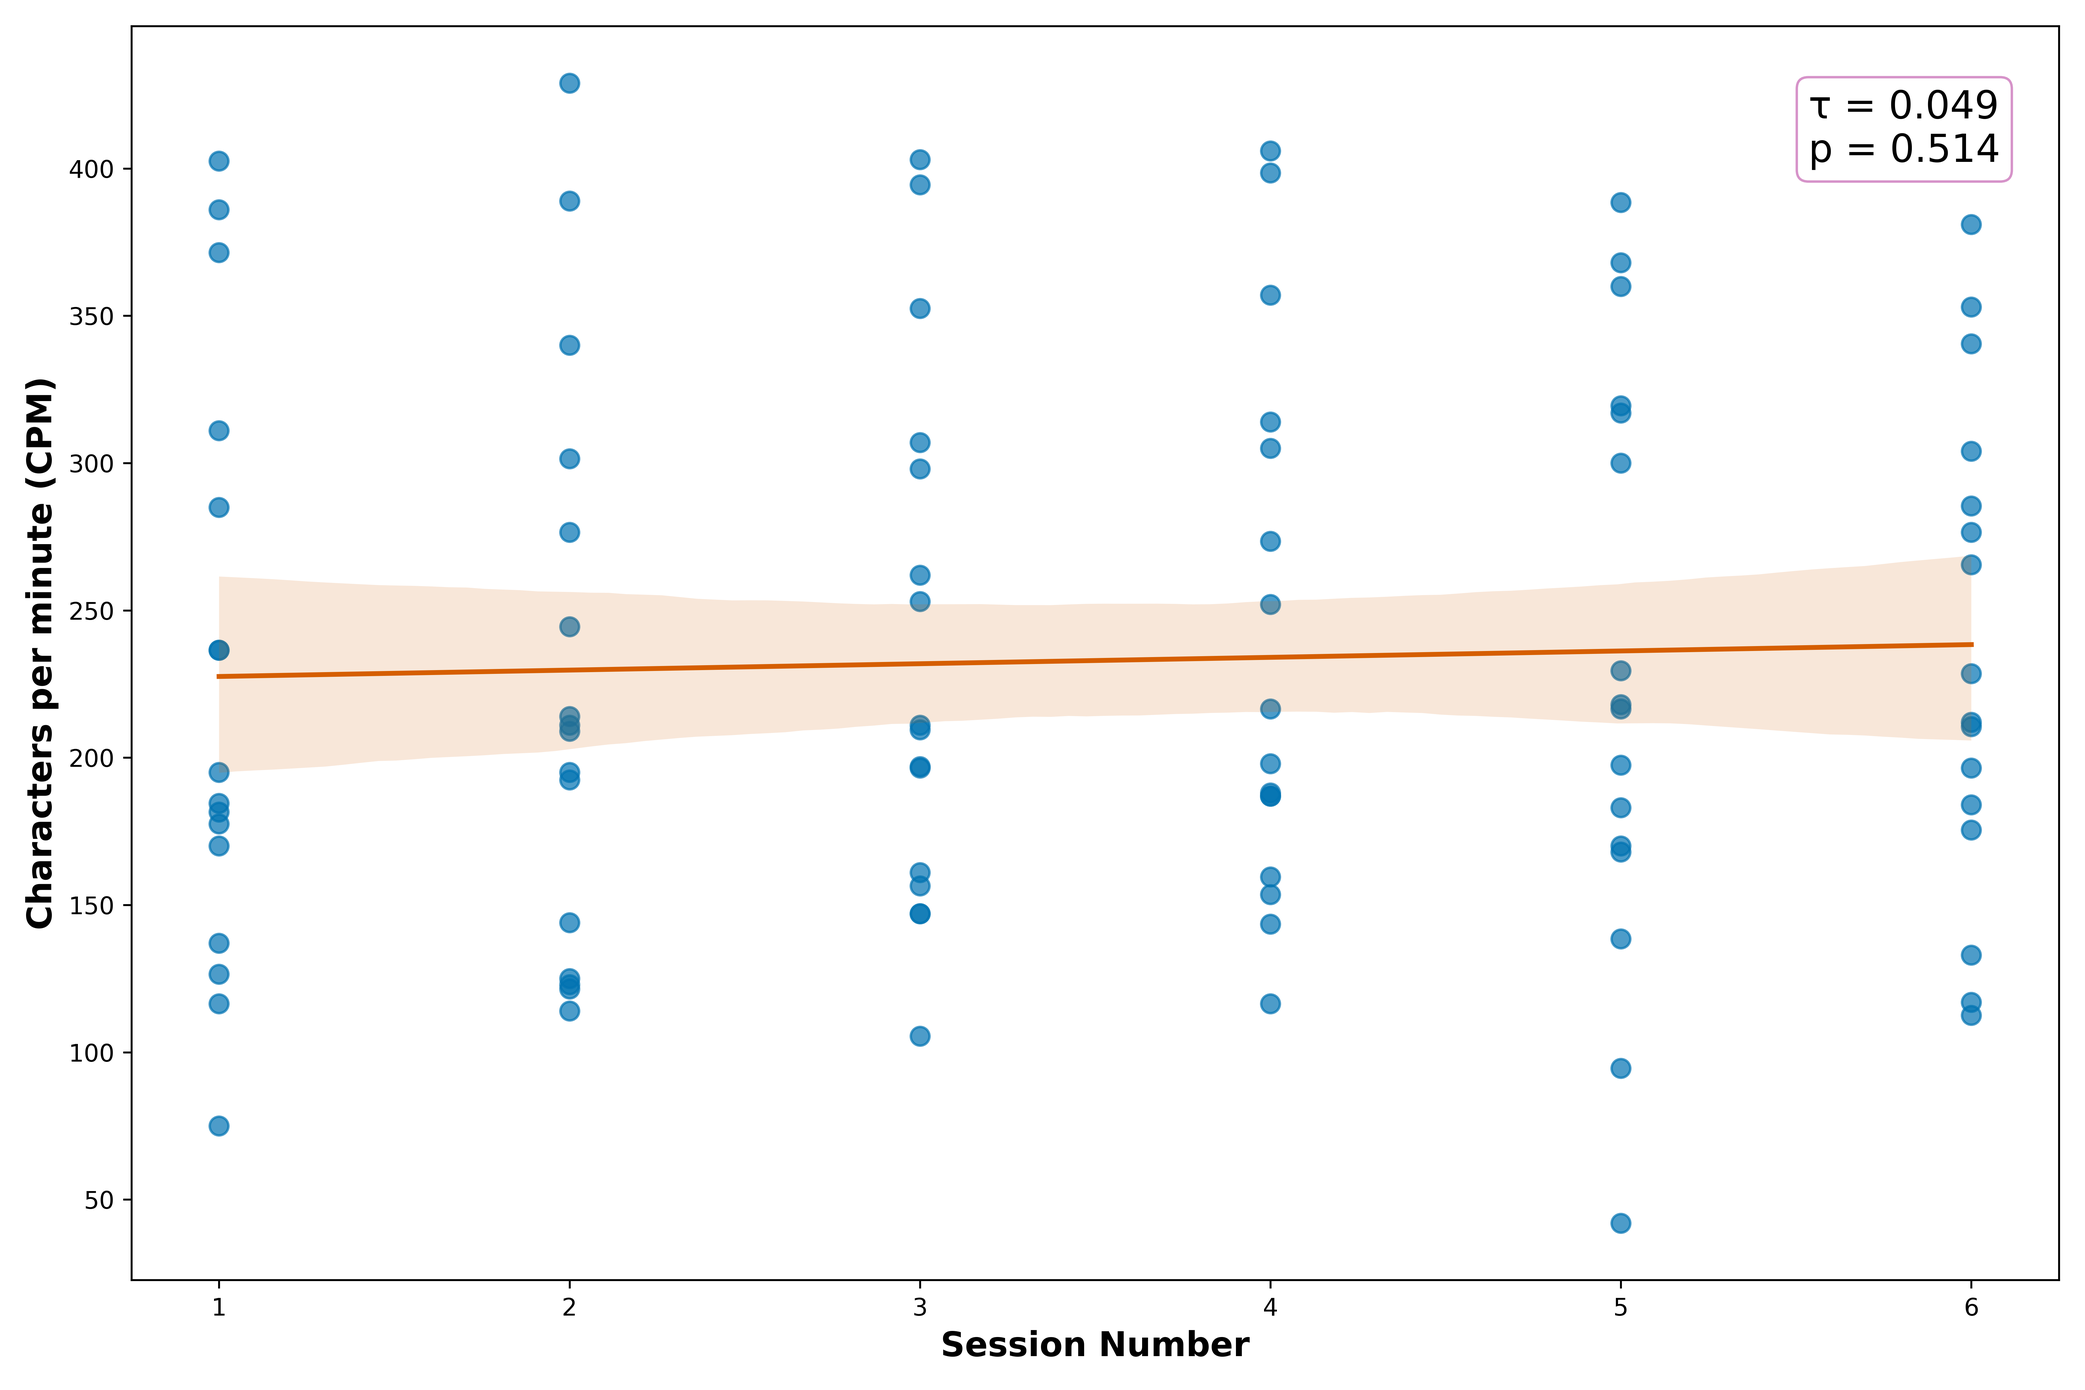
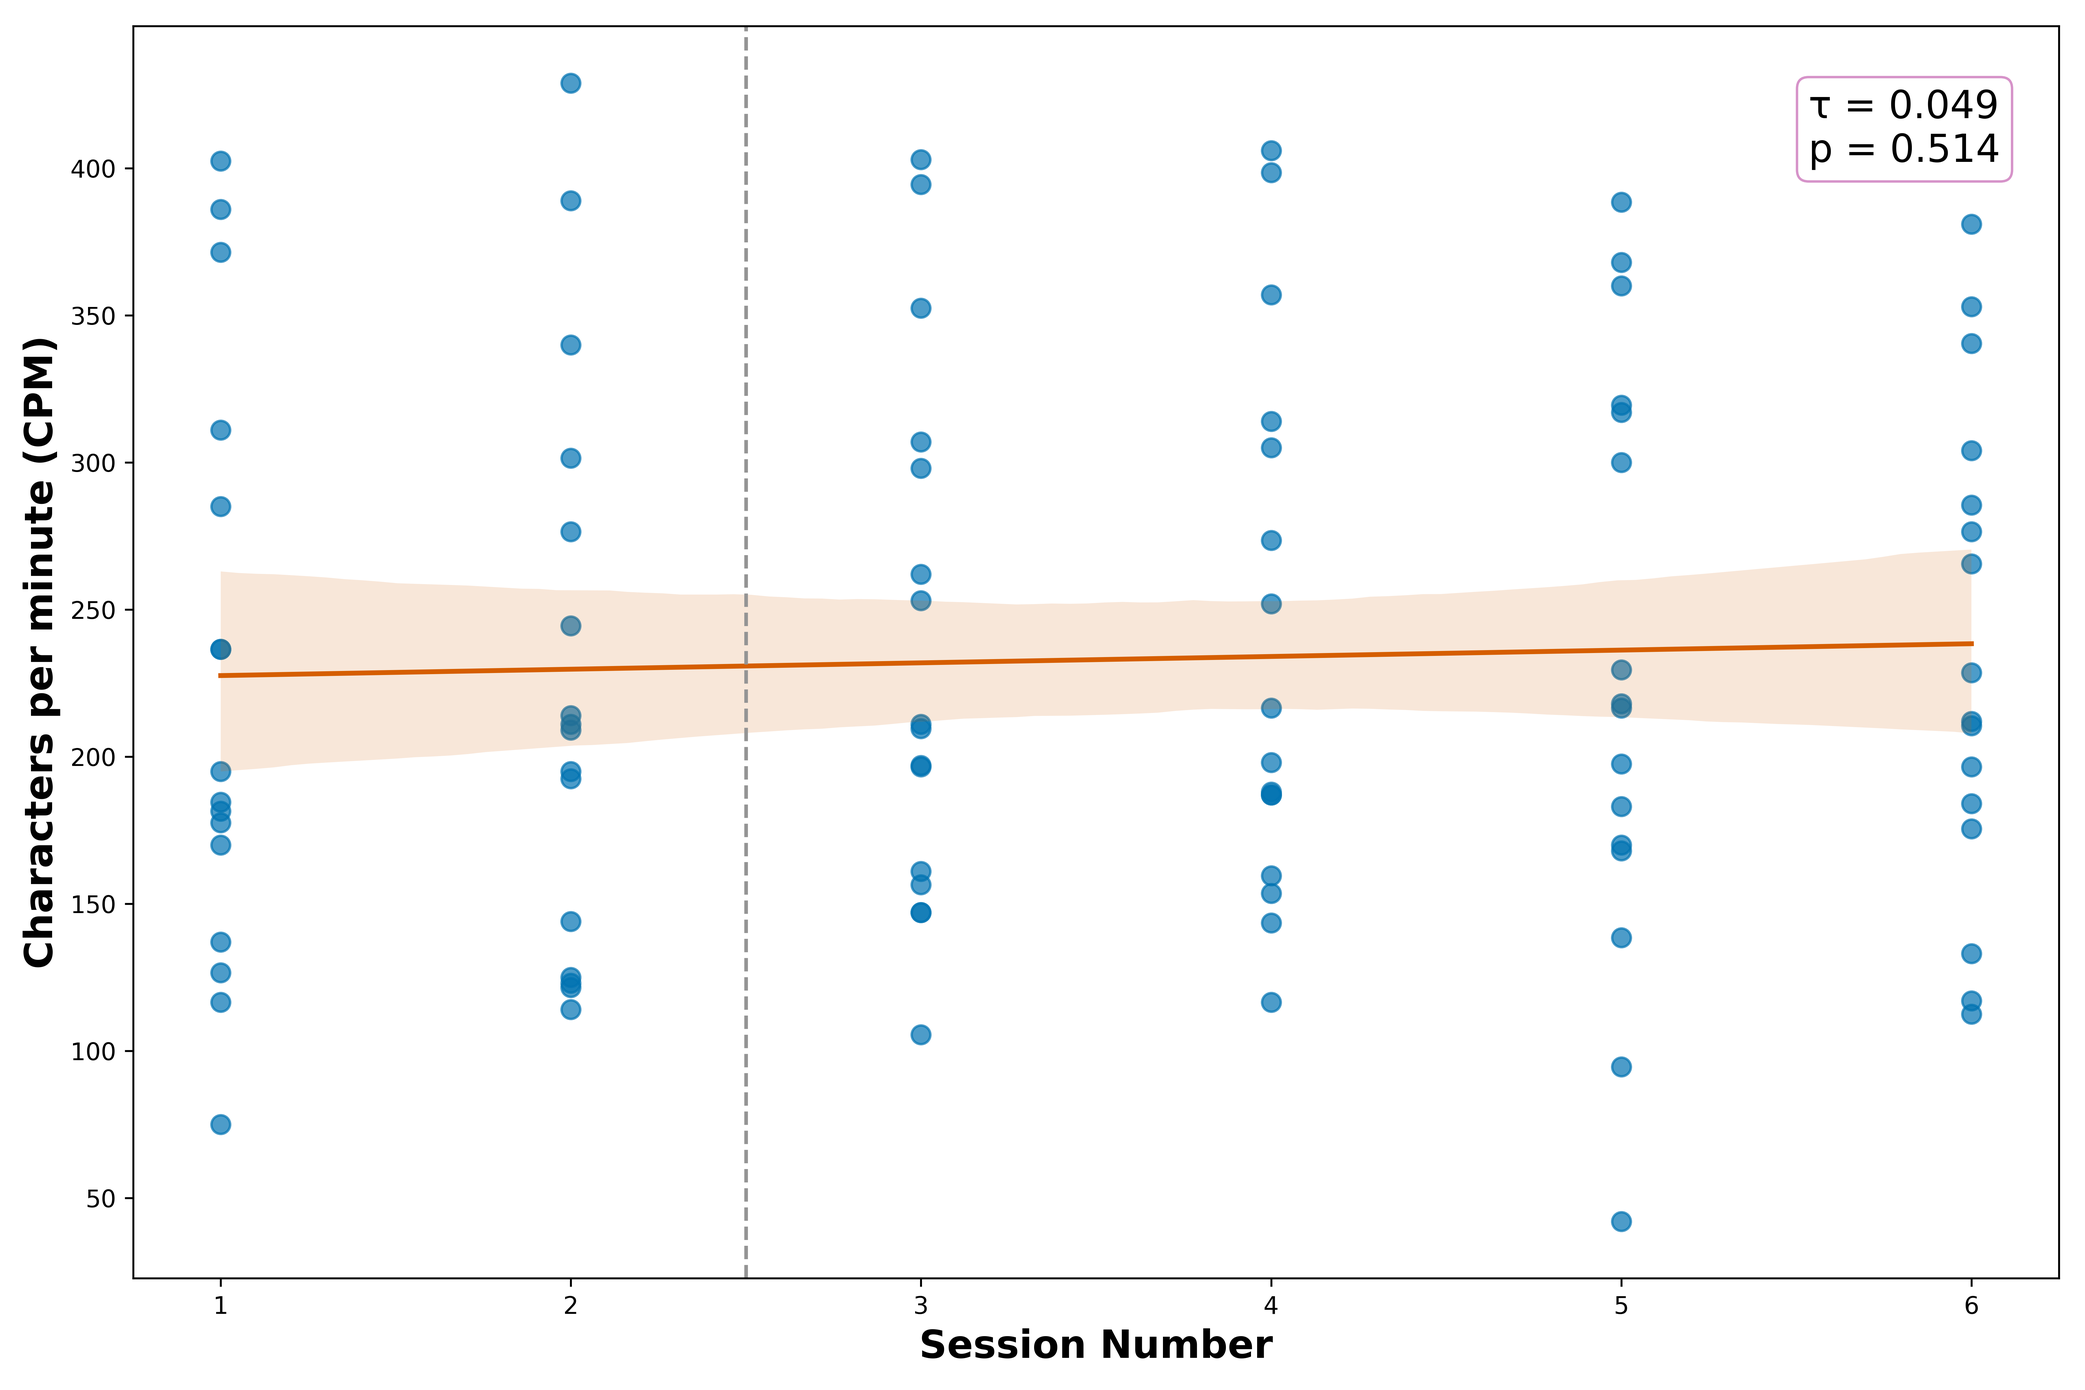
finish all graphs

diff --git a/questionaire_analysis.py b/questionaire_analysis.py
@@ -1,5 +1,8 @@
 import pandas as pd
 import numpy as np
+import matplotlib.pyplot as plt
+import seaborn as sb
+import scipy.stats as stats
 
 
 def import_data():
@@ -48,38 +51,279 @@ def import_data():
         # Convert to numpy array
         question_data[question] = np.array(converted_values)
 
-    # for key, value in question_data.items():
-    #     print(f"{key}: {value}")
-
     return question_data
 
 def make_categories():
-    introduction = ["Participant number", "What is your age?", "What is your gender?", "How many hours a day do you normally spend sitting? - Hours", "Have you ever used a footrest while working or studying?", "Have you used any time management apps or timers to remind you to take breaks?", "Do you have any experience using the Pomodoro technique for working or studying?"]
-    usability = ["I found PushBreak easy to use", "I felt confident using PushBreak", "I found PushBreak unnecessarily complex", "I think most people would learn to use PushBreak very quickly", "I needed to learn a lot of things before I could get going with PushBreak"]
-    nudging = ["I noticed when the nudging from PushBreak started", "I felt the urge to move or get up at the right time", "The nudging of the device was…", "The shape-changing feedback clearly signalled that it was time to take a break", "The timing of the nudges was appropriate for my workflow"]
-    effectiveness = ["PushBreak helped me become more aware of how long I had been sitting", "PushBreak encouraged me to take breaks", "I would be more likely to take micro-breaks if I used PushBreak regularly", "I felt that PushBreak successfully changed my behaviour", "I felt that PushBreak was more effective than a timer"]
-    integration = ["PushBreak felt like a natural part of my workspace", "PushBreak supported my workflow rather than interrupting it", "PushBreak's physical presence and feedback were well integrated into the environment"]
-    acceptance = ["I would consider using a similar device in my workspace", "I would choose PushBreak over a conventional timer", "Using PushBreak made me feel more responsible about my health", "I would like to use PushBreak regularly"]
+    categories = {
+        "introduction": ["Participant number", "What is your age?", "What is your gender?", "How many hours a day do you normally spend sitting? - Hours", "Have you ever used a footrest while working or studying?", "Have you used any time management apps or timers to remind you to take breaks?", "Do you have any experience using the Pomodoro technique for working or studying?"],
+        "usability": ["I found PushBreak easy to use", "I felt confident using PushBreak", "I found PushBreak unnecessarily complex", "I think most people would learn to use PushBreak very quickly", "I needed to learn a lot of things before I could get going with PushBreak"],
+        "nudging": ["I noticed when the nudging from PushBreak started", "I felt the urge to move or get up at the right time", "The nudging of the device was…", "The shape-changing feedback clearly signalled that it was time to take a break", "The timing of the nudges was appropriate for my workflow"],
+        "effectiveness": ["PushBreak helped me become more aware of how long I had been sitting",
+                          "PushBreak encouraged me to take breaks",
+                          "I would be more likely to take micro-breaks if I used PushBreak regularly",
+                          "I felt that PushBreak successfully changed my behaviour",
+                          "I felt that PushBreak was more effective than a timer"],
+        "integration": ["PushBreak felt like a natural part of my workspace", "PushBreak supported my workflow rather than interrupting it", "PushBreak's physical presence and feedback were well integrated into the environment"],
+        "acceptance": ["I would consider using a similar device in my workspace", "I would choose PushBreak over a conventional timer", "Using PushBreak made me feel more responsible about my health", "I would like to use PushBreak regularly"]
+    }
 
-    return introduction, usability, nudging, effectiveness, integration, acceptance
+    return categories
 
-def print_category(data, category):
-    for question in category:
+def print_category(data, category_name, category_questions):
+    print(f"\n=== {category_name.upper()} ===")
+    for question in category_questions:
         if question in data:
-            print(f"{question}: {data[question]}")
-            print(f"Data type: {type(data[question])}, Array dtype: {data[question].dtype}")
-            print()
+            print(f"{question}: {data[question]}\n")
 
-def handle_introduction(data, introduction):
-    print(data[introduction[1]])  # Example printing ages
-    mean = np.mean(data[introduction[1]]) # Example for mean age
-    return mean
+def category_average(data, category_name, category_questions):
+    # Add all the columns of every question in the category
+    category_average_per_participant = np.mean([data[question] for question in category_questions if question in data], axis=0)
+    return category_average_per_participant
+
+# def create_bar_scatter_plots(graph_data, categories_to_analyze):
+#     """
+#     Create 4 bar charts with scatter plots overlaid showing average per category using Seaborn
+#     """
+#     # Set up the color palette
+#     palette = sb.color_palette("colorblind")
+#     blue = palette[0]
+#     orange = palette[1]
+#     green = palette[2]
+#     red = palette[3]
+#     purple = palette[4]
+#     brown = palette[5]
+#     pink = palette[6]
+#     grey = palette[7]
+#     yellow = palette[8]
+#     teal = palette[9]
+
+#     # Category colors - blue as main, with variety for each category
+#     category_colors = [blue, green, purple, teal]
+
+#     # Set seaborn style
+#     sb.set_style("whitegrid")
+#     fig, axes = plt.subplots(2, 2, figsize=(15, 12))
+#     axes = axes.flatten()
+
+#     for i, (category_name, category_data) in enumerate(zip(categories_to_analyze, graph_data)):
+#         ax = axes[i]
+
+#         # Remove NaN values for plotting
+#         clean_data = category_data[~np.isnan(category_data)]
+
+#         if len(clean_data) == 0:
+#             ax.text(0.5, 0.5, f'No data available\nfor {category_name}',
+#                    ha='center', va='center', transform=ax.transAxes, fontsize=12)
+#             ax.set_title(category_name.capitalize(), fontsize=14, fontweight='bold')
+#             continue
+
+#         # Calculate statistics
+#         mean_value = np.mean(clean_data)
+#         std_value = np.std(clean_data)
+
+#         # Create bar chart using seaborn
+#         sb.barplot(x=[category_name.capitalize()], y=[mean_value],
+#                   color=category_colors[i], alpha=0.8, ax=ax,
+#                   errorbar=None)  # We'll add custom error bars
+
+#         # Add custom error bars with red color
+#         ax.errorbar([0], [mean_value], yerr=[std_value], fmt='none',
+#                    color=red, capsize=8, capthick=2, linewidth=2)
+
+#         # Create scatter plot overlay using seaborn
+#         participant_indices = np.zeros(len(clean_data)) + np.random.normal(0, 0.08, len(clean_data))
+#         sb.scatterplot(x=participant_indices, y=clean_data, color=red, alpha=0.7,
+#                       s=60, ax=ax, zorder=5)
+
+#         # Customize the plot
+#         ax.set_xlim(-0.5, 0.5)
+#         ax.set_ylim(0, 8)
+#         ax.set_ylabel('Rating', fontsize=12, fontweight='bold')
+#         ax.set_xlabel('')
+#         ax.set_title(category_name.capitalize(), fontsize=14, fontweight='bold',
+#                     color=category_colors[i])
+
+#         # Add statistics text with styled box
+#         stats_text = f'Mean: {mean_value:.2f}\nSD: {std_value:.2f}\nN: {len(clean_data)}'
+#         ax.text(0.02, 0.98, stats_text, transform=ax.transAxes,
+#                 verticalalignment='top', fontsize=11, fontweight='bold',
+#                 bbox=dict(boxstyle='round,pad=0.5', facecolor=category_colors[i],
+#                          alpha=0.2, edgecolor=red, linewidth=1.5))
+
+#     plt.tight_layout()
+#     plt.suptitle('PushBreak Survey Results: Category Averages with Individual Responses',
+#                 fontsize=16, fontweight='bold', y=1.02, color=blue)
+#     plt.show()
+
+def create_combined_comparison_plot(graph_data, categories_to_analyze, p_values):
+    """
+    Create a single plot comparing all categories using Seaborn
+    """
+    # Set up the color palette
+    palette = sb.color_palette("colorblind")
+    blue = palette[0]
+    orange = palette[1]
+    green = palette[2]
+    red = palette[3]
+    purple = palette[4]
+    brown = palette[5]
+    pink = palette[6]
+    grey = palette[7]
+    yellow = palette[8]
+    teal = palette[9]
+
+    # Category colors - going crazy with the palette!
+    category_colors = [red, yellow, green, teal, purple]
+
+    # Set seaborn style
+    sb.set_style("white")
+    plt.figure(figsize=(14, 8))
+
+    # Calculate means and standard deviations
+    means = []
+    stds = []
+    clean_data_sets = []
+
+    for category_data in graph_data:
+        clean_data = category_data[~np.isnan(category_data)]
+        clean_data_sets.append(clean_data)
+        if len(clean_data) > 0:
+            means.append(np.mean(clean_data))
+            stds.append(np.std(clean_data))
+        else:
+            means.append(0)
+            stds.append(0)
+
+    # Create bar chart using seaborn
+    x_pos = np.arange(len(categories_to_analyze))
+    category_names = [cat.capitalize() for cat in categories_to_analyze]
+
+    # Create the bar plot
+    bars = sb.barplot(x=category_names, y=means, palette=category_colors, alpha=0.8,
+                      edgecolor=grey, linewidth=1)
+
+    # Add custom error bars with red color
+    plt.errorbar(x_pos, means, yerr=stds, fmt='none', color=grey,
+                capsize=8, capthick=3, linewidth=2, zorder=10)
+
+    plt.axhline(y=4, color=grey, linewidth=1, linestyle='--', zorder=1)
+
+    # Add scatter plots for each category with different colors]
+    for i, clean_data in enumerate(clean_data_sets):
+        if len(clean_data) > 0:
+            # Create a temporary DataFrame for this category
+            temp_df = pd.DataFrame({
+                'Category': [category_names[i]] * len(clean_data),
+                'Value': clean_data
+            })
+            sb.swarmplot(x="Category", y="Value", data=temp_df, color=blue, alpha=0.9
+                         , size=10, zorder=5)
+
+            # Add p-values as text annotations above the bars
+            p_value = p_values[i]
+            if p_value < 0.001:
+                p_text = 'p < 0.001'
+            else:
+                p_text = f'p = {p_value:.3f}'
+
+            plt.text(i, 7.2, p_text,
+                     ha='center', va='bottom',
+                     fontsize=14, color="black",
+                     bbox=dict(boxstyle='round,pad=0.3', facecolor='white',
+                              alpha=0.8, edgecolor=purple, linewidth=1))
+
+    # Customize the plot
+    plt.xlabel('Categories', fontsize=16, fontweight='bold')
+    plt.ylabel('Average rating', fontsize=16, fontweight='bold')
+    # plt.title('PushBreak Survey Results: Comparison Across Categories',
+    #          fontsize=16, fontweight='bold', color=blue, pad=20)
+    plt.ylim(1, 7.5)
+
+    # Add value labels on bars with different colors
+    # label_colors = [grey, brown, pink, teal, red]
+    # for i, (mean, std) in enumerate(zip(means, stds)):
+    #     plt.text(i, mean + std + 0.15, f'{mean:.2f}',
+    #             ha='center', va='bottom', fontweight='bold',
+    #             fontsize=12, color=label_colors[i],
+    #             bbox=dict(boxstyle='round,pad=0.3', facecolor='white',
+    #                      alpha=0.8, edgecolor=red, linewidth=1))
+
+
+    plt.tight_layout()
+    plt.savefig("plots/survey_data.png", dpi=600, bbox_inches='tight')
+
+def statistics(data, categories):
+    print(data)
+    p_values = []
+
+    for i in range(len(data)):
+        _, p_value = stats.shapiro(data[i])
+
+        if p_value < 0.05:
+            print(f"Category '{categories[i]}' does not follow a normal distribution p={p_value}.")
+            _, p = stats.wilcoxon(data[i], np.full(len(data[i]), 4))
+            print(f"Wilcoxon signed-rank test p-value for '{categories[i]}': {p}")
+        else:
+            print(f"Category '{categories[i]}' follows a normal distribution p={p_value}.")
+            _, p = stats.ttest_1samp(data[i], 4)
+            print(f"One-sample t-test p-value for '{categories[i]}': {p}")
+
+        p_values.append(p)
+    print(f"P-values for each category: {p_values}")
+
+    return p_values
 
 def main():
     data = import_data()
-    introduction, usability, nudging, effectiveness, integration, acceptance = make_categories()
+    categories = make_categories()
 
-    print(handle_introduction(data, introduction))
+    # Reverse negatively worded questions in usability
+    if categories["usability"][2] in data:
+        data[categories["usability"][2]] = 8 - data[categories["usability"][2]]
+    if categories["usability"][4] in data:
+        data[categories["usability"][4]] = 8 - data[categories["usability"][4]]
+
+    if categories["nudging"][2] in data:
+        # Create a mapping dictionary
+        nudging_mapping = {
+            "Too subtle": 1,
+            "A little subtle": 4,
+            "Just right": 7,
+            "A little obvious": 4,
+            "Too obvious": 1
+        }
+
+        # Convert the numpy array to handle string replacements
+        nudging_data = data[categories["nudging"][2]]
+        converted_data = []
+
+        for value in nudging_data:
+            if pd.isna(value) or value == '' or value is None:
+                converted_data.append(np.nan)
+            elif value in nudging_mapping:
+                converted_data.append(nudging_mapping[value])
+            else:
+                # Keep original value if it's already numeric or unknown string
+                try:
+                    converted_data.append(float(value))
+                except (ValueError, TypeError):
+                    converted_data.append(np.nan)
+
+        data[categories["nudging"][2]] = np.array(converted_data)
+
+    # For each category except introduction, average for each participant their answers
+    categories_to_analyze = ["usability", "nudging", "effectiveness", "integration", "acceptance"]
+
+    graph_data = []
+    for category_name in categories_to_analyze:
+        category_avg = category_average(data, category_name, categories[category_name])
+        graph_data.append(category_avg)
+
+    # Create the visualizations
+    # create_bar_scatter_plots(graph_data, categories_to_analyze)
+    p_values = statistics(graph_data, categories_to_analyze)
+
+    create_combined_comparison_plot(graph_data, categories_to_analyze, p_values)
 
 if __name__ == "__main__":
     main()

diff --git a/time_analysis.py b/time_analysis.py
@@ -66,11 +66,11 @@ teal = palette[9]
 
 
 plt.figure(figsize=(8, 10))
-sb.boxplot(y=duration_array/60, color=blue, width=0.5)
+sb.boxplot(y=duration_array/60, color=teal, width=0.5)
 
 # Customize the plot
-plt.title('Time spent seated after first nudge', fontsize=24, fontweight='bold')
-plt.ylabel('Duration (minutes)', fontsize=16)
+# plt.title('Time spent seated after first nudge', fontsize=24, fontweight='bold')
+plt.ylabel('Duration (minutes)', fontsize=16, fontweight='bold')
 # plt.grid(True, alpha=0.3)
 max_y = np.max(duration_array) / 60
 plt.xticks([])
@@ -82,7 +82,7 @@ plt.axhline(y=mean_duration/60, color=red, linestyle='--', alpha=0.8, label=f'Me
 plt.axhline(y=ci_lower/60, color=orange, linestyle=':', alpha=0.8, label=f'95% CI Lower: {format_duration(ci_lower)}')
 plt.axhline(y=ci_upper/60, color=orange, linestyle=':', alpha=0.8, label=f'95% CI Upper: {format_duration(ci_upper)}')
 
-plt.legend(loc='upper right', fontsize=12)
+plt.legend(loc='upper right', fontsize=13, edgecolor=purple)
 plt.tight_layout()
 
 # Save the plot as a PNG file

diff --git a/text_plot.py b/text_plot.py
@@ -62,8 +62,8 @@ sb.regplot(data=df_melted, x='session_num', y='cpm',
             ci=95, ax=ax)
 
 # Customize the plot
-ax.set_xlabel('Session Number', fontsize=14, fontweight='bold')
-ax.set_ylabel('Characters per minute (CPM)', fontsize=14, fontweight='bold')
+ax.set_xlabel('Session Number', fontsize=16, fontweight='bold')
+ax.set_ylabel('Characters per minute (CPM)', fontsize=16, fontweight='bold')
 # ax.set_title('CPM Performance Across Sessions\nwith Linear Regression and 95% Confidence Interval',
 #              fontsize=16, fontweight='bold', pad=20)
 
@@ -73,6 +73,9 @@ ax.set_xticklabels([str(i) for i in range(1, 7)])
 
 # # Add grid for better readability
 # ax.grid(True, alpha=0.3, linestyle='--')
+
+# Add a vertical line at session 2.5
+ax.axvline(x=2.5, color=grey, linestyle='--', linewidth=1.5)
 
 # Add statistics box
 stats_text = f'τ = {correlation:.3f}\np = {p:.3f}'
